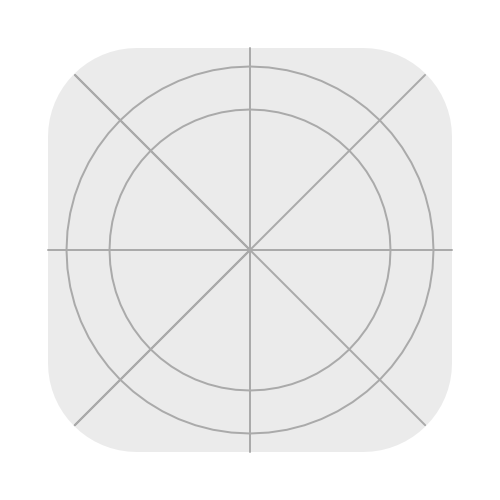
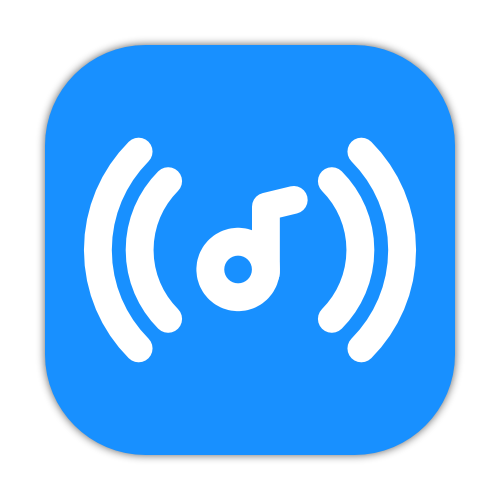
添加图标

diff --git a/src/background.js b/src/background.js
@@ -10,12 +10,14 @@ protocol.registerSchemesAsPrivileged([
 let win;
 
 async function createWindow() {
+	const path = require('path');
 	win = new BrowserWindow({
 		width: 1100,
 		height: 770,
 		frame: false,
 		titleBarStyle: 'hiddenInset',
 		// resizable: false,
+		icon: path.join(__dirname, 'src/assets/icon.png'),
 		webPreferences: {
 			nodeIntegration: true,
 			contextIsolation: false
